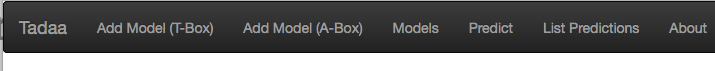
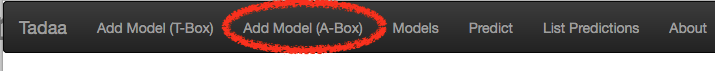
step by step guide

Changed region(s): [[0.3077, 0.0, 0.5538, 0.7606]]

diff --git a/how to/README.md b/how to/README.md
@@ -1,0 +1,16 @@
+# Step by Step Guide:
+1. Go to the application url `http://127.0.0.1:8000`
+2. Go to `Add Model (A-Box)` and fill in the details
+![alt text](https://raw.githubusercontent.com/ahmad88me/tada/master/how%20to/navbar.png "A-Box")
+![alt text](https://raw.githubusercontent.com/ahmad88me/tada/master/how%20to/create_an_a_box_model.png "Add A-Box Model")
+3. You will be redirected to the list of models that shows the progress. Wait until the progress reach 100.
+![alt text](https://raw.githubusercontent.com/ahmad88me/tada/master/how%20to/model_inprogress.png "A-Box progress")
+4. Go to `Predict`, fill in the details and upload your input files.
+![alt text](https://raw.githubusercontent.com/ahmad88me/tada/master/how%20to/navbar2.png "Predict")
+![alt text](https://raw.githubusercontent.com/ahmad88me/tada/master/how%20to/create_a_prediction.png "Predict input files")
+5. You will be redirected to the list of prediction. Wait until the progress of your prediction reach 100. Then click on the yellow button next to your prediction.
+![alt text](https://raw.githubusercontent.com/ahmad88me/tada/master/how%20to/prediction_list.png "Prediction progress")
+6. Now click on the item that corresponds to the column of choice or click on `show all` to see the prediction of all the columns.
+![alt text](https://raw.githubusercontent.com/ahmad88me/tada/master/how%20to/classification_columns.png "Classified columns")
+![alt text](https://raw.githubusercontent.com/ahmad88me/tada/master/how%20to/classification.png "Classification of each column")
+

diff --git a/README.md b/README.md
@@ -30,6 +30,6 @@ Files:`learning.py`
 This model is responsible for extracting the data for a collection of classes from the endpoint using SPARQL query.
 File: `data_extraction.py` and `easysparql.py`
 
-##Step by Step guide
-[step by step guide]()
+## Step by Step guide
+[step by step guide](https://github.com/ahmad88me/tada/tree/master/how%20to/README.md)
 
